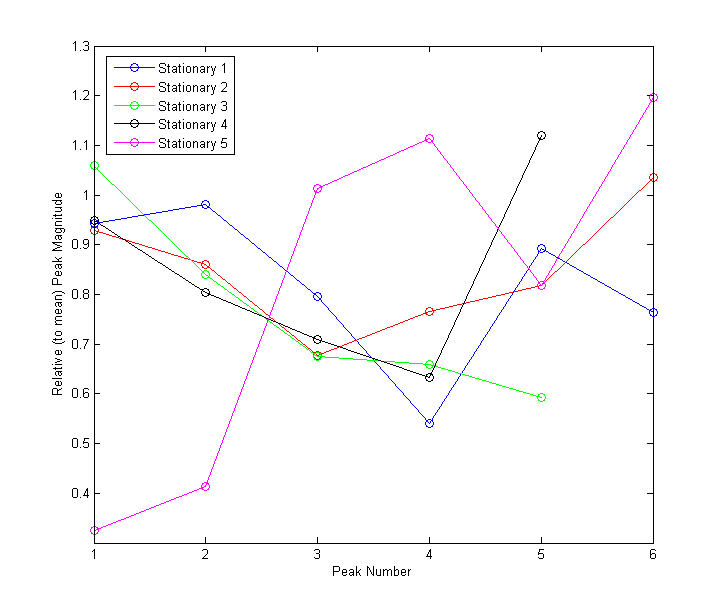
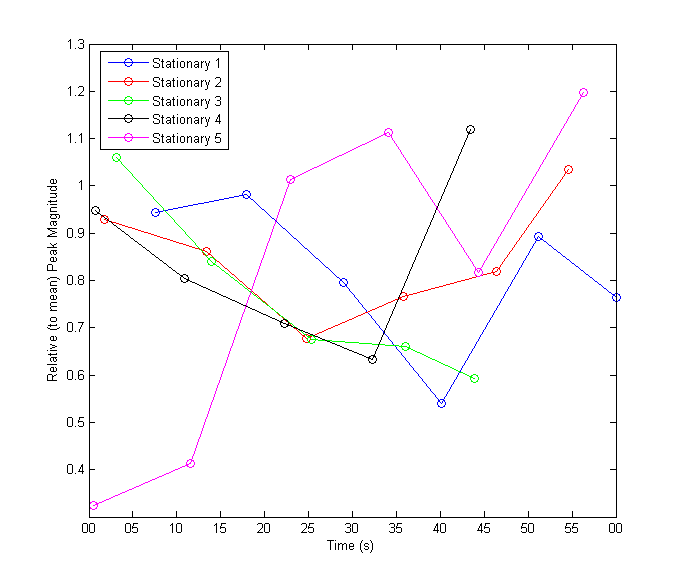
proj

diff --git a/project_p6.m b/project_p6.m
@@ -143,21 +143,12 @@ t_p6 = [1:6];
 t_p5 = [1:5];
 
 figure(1);
-%subplot(5,1,1);
-plot(t_p6,pks1,'-bo'); hold on;
-plot(t_p6,pks2,'-ro');
-plot(t_p5,pks3,'-go');
-plot(t_p5,pks4,'-ko');
-plot(t_p6,pks5,'-mo');
-xlabel('Peak Number');
+plot((ti_1(locs1)-ti_1(1))/(1000000*3600*24),pks1,'-bo'); hold on;
+plot((ti_2(locs2)-ti_2(1))/(1000000*3600*24),pks2,'-ro');
+plot((ti_3(locs3)-ti_3(1))/(1000000*3600*24),pks3,'-go');
+plot((ti_4(locs4)-ti_4(1))/(1000000*3600*24),pks4,'-ko');
+plot((ti_5(locs5)-ti_5(1))/(1000000*3600*24),pks5,'-mo');
+xlabel('Time (s)');
 ylabel('Relative (to mean) Peak Magnitude');
-set(gca,'xtick',1:6);
+datetick('x','SS');
 legend('Stationary 1','Stationary 2','Stationary 3','Stationary 4','Stationary 5');
-
-
-
-
-
-
-
-
